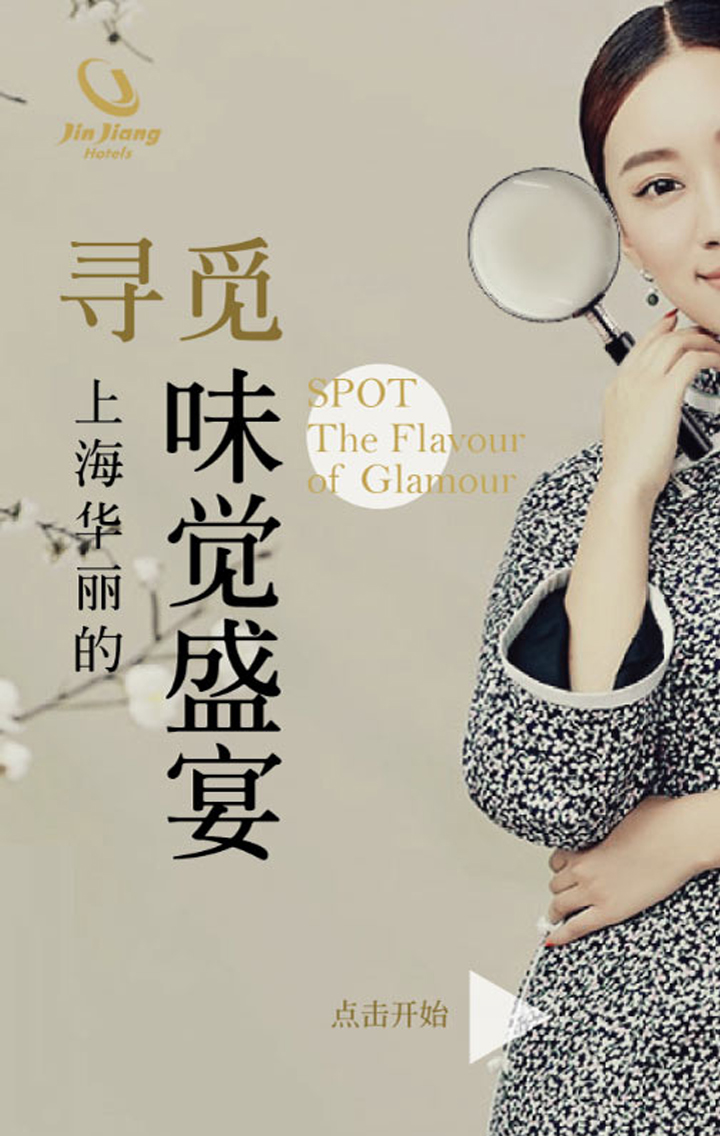
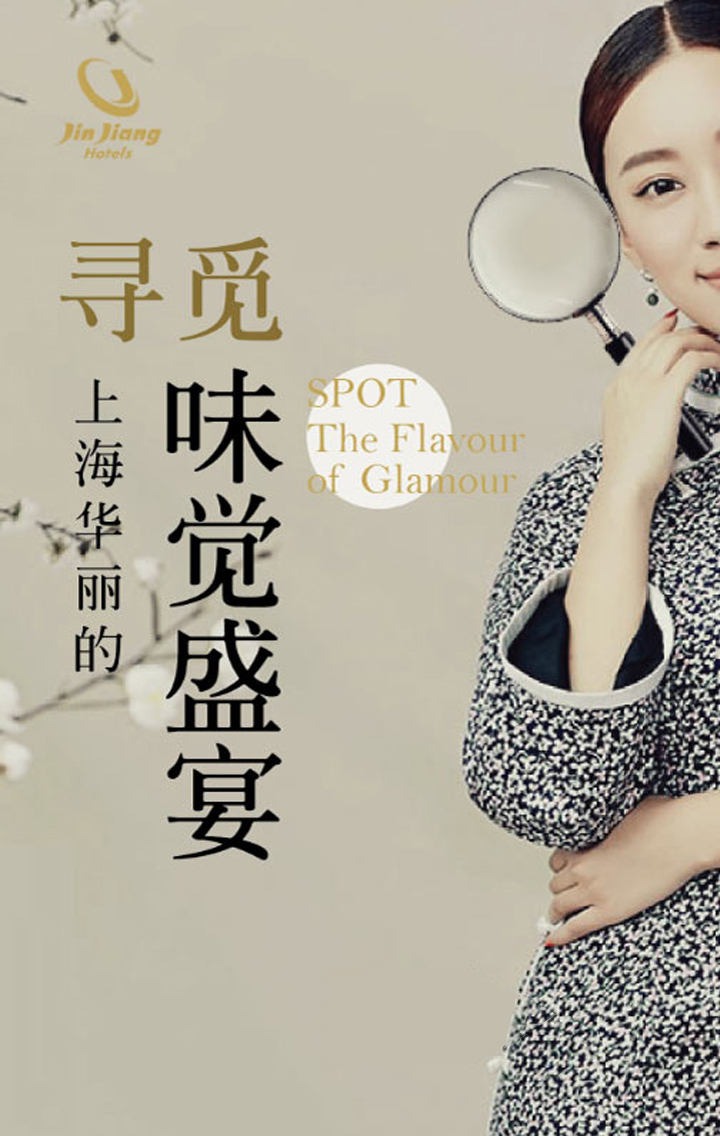
test

Changed region(s): [[0.6417, 0.8319, 0.7639, 0.9551], [0.4583, 0.8627, 0.6111, 0.9243]]

diff --git a/jinjiang/mobileApp/css/main.css b/jinjiang/mobileApp/css/main.css
@@ -18,6 +18,8 @@ div[data-role='page']{
 :-ms-input-placeholder {  
    color: #333;  
 }
+
+
 #logo{
 	margin: 0px auto;
 	width: 33.33%
@@ -49,9 +51,12 @@ div[data-role='page']{
 }
 #start{
 	position: fixed;
-	bottom: 20%;
+	bottom: 10%;
 	top:auto;
-	right:30%;
+	left:30%;
+}
+#start img {
+    width:120px;
 }
 #rule{
 	/**/
@@ -89,10 +94,11 @@ div[data-role='page']{
 	z-index: 9999;
 	margin-left: -125px;
 	margin-top: -125px;
+	opacity: 0;
 
 }
-#intro .beginning{
-	opacity: 0;
+.ui-btn-icon-right:after {
+background-image:url(img/unlock-hint.png);
 }
 #intro .beginning.not-animated{
 
@@ -106,7 +112,14 @@ div[data-role='page']{
 #intro .ui-content .ui-listview {
 	margin-top: -2px;
 }
-
+#intro .ui-listview > li p {
+    margin:0px;
+    height:100%;
+    -webkit-margin-before: 0em;
+    -webkit-margin-after: 0em;
+    -webkit-margin-start: 0px;
+    -webkit-margin-end: 0px;
+}
 #intro a,#intro a:focus{
 	min-height: 100%;
 	height: 100%;

diff --git a/jinjiang/mobileApp/index.html b/jinjiang/mobileApp/index.html
@@ -19,7 +19,7 @@
 <!-- Start of main page -->
 <div data-role="page" id="main">
 	<div role="main" class="ui-content">
-		<a id="start" href="#form">Enter</a>
+		<a id="start" href="#form"><img src="img/enterBtn.png" id="enter" /></a>
 	</div><!-- /content -->
 </div><!-- /page -->
 

diff --git a/AboutMe.html b/AboutMe.html
@@ -1,0 +1,9 @@
+---
+layout: page
+title: About Me!
+tagline: Supporting tagline
+---
+{% include JB/setup %}
+
+{% assign posts_collate = site.posts %}
+{% include JB/posts_collate %}
